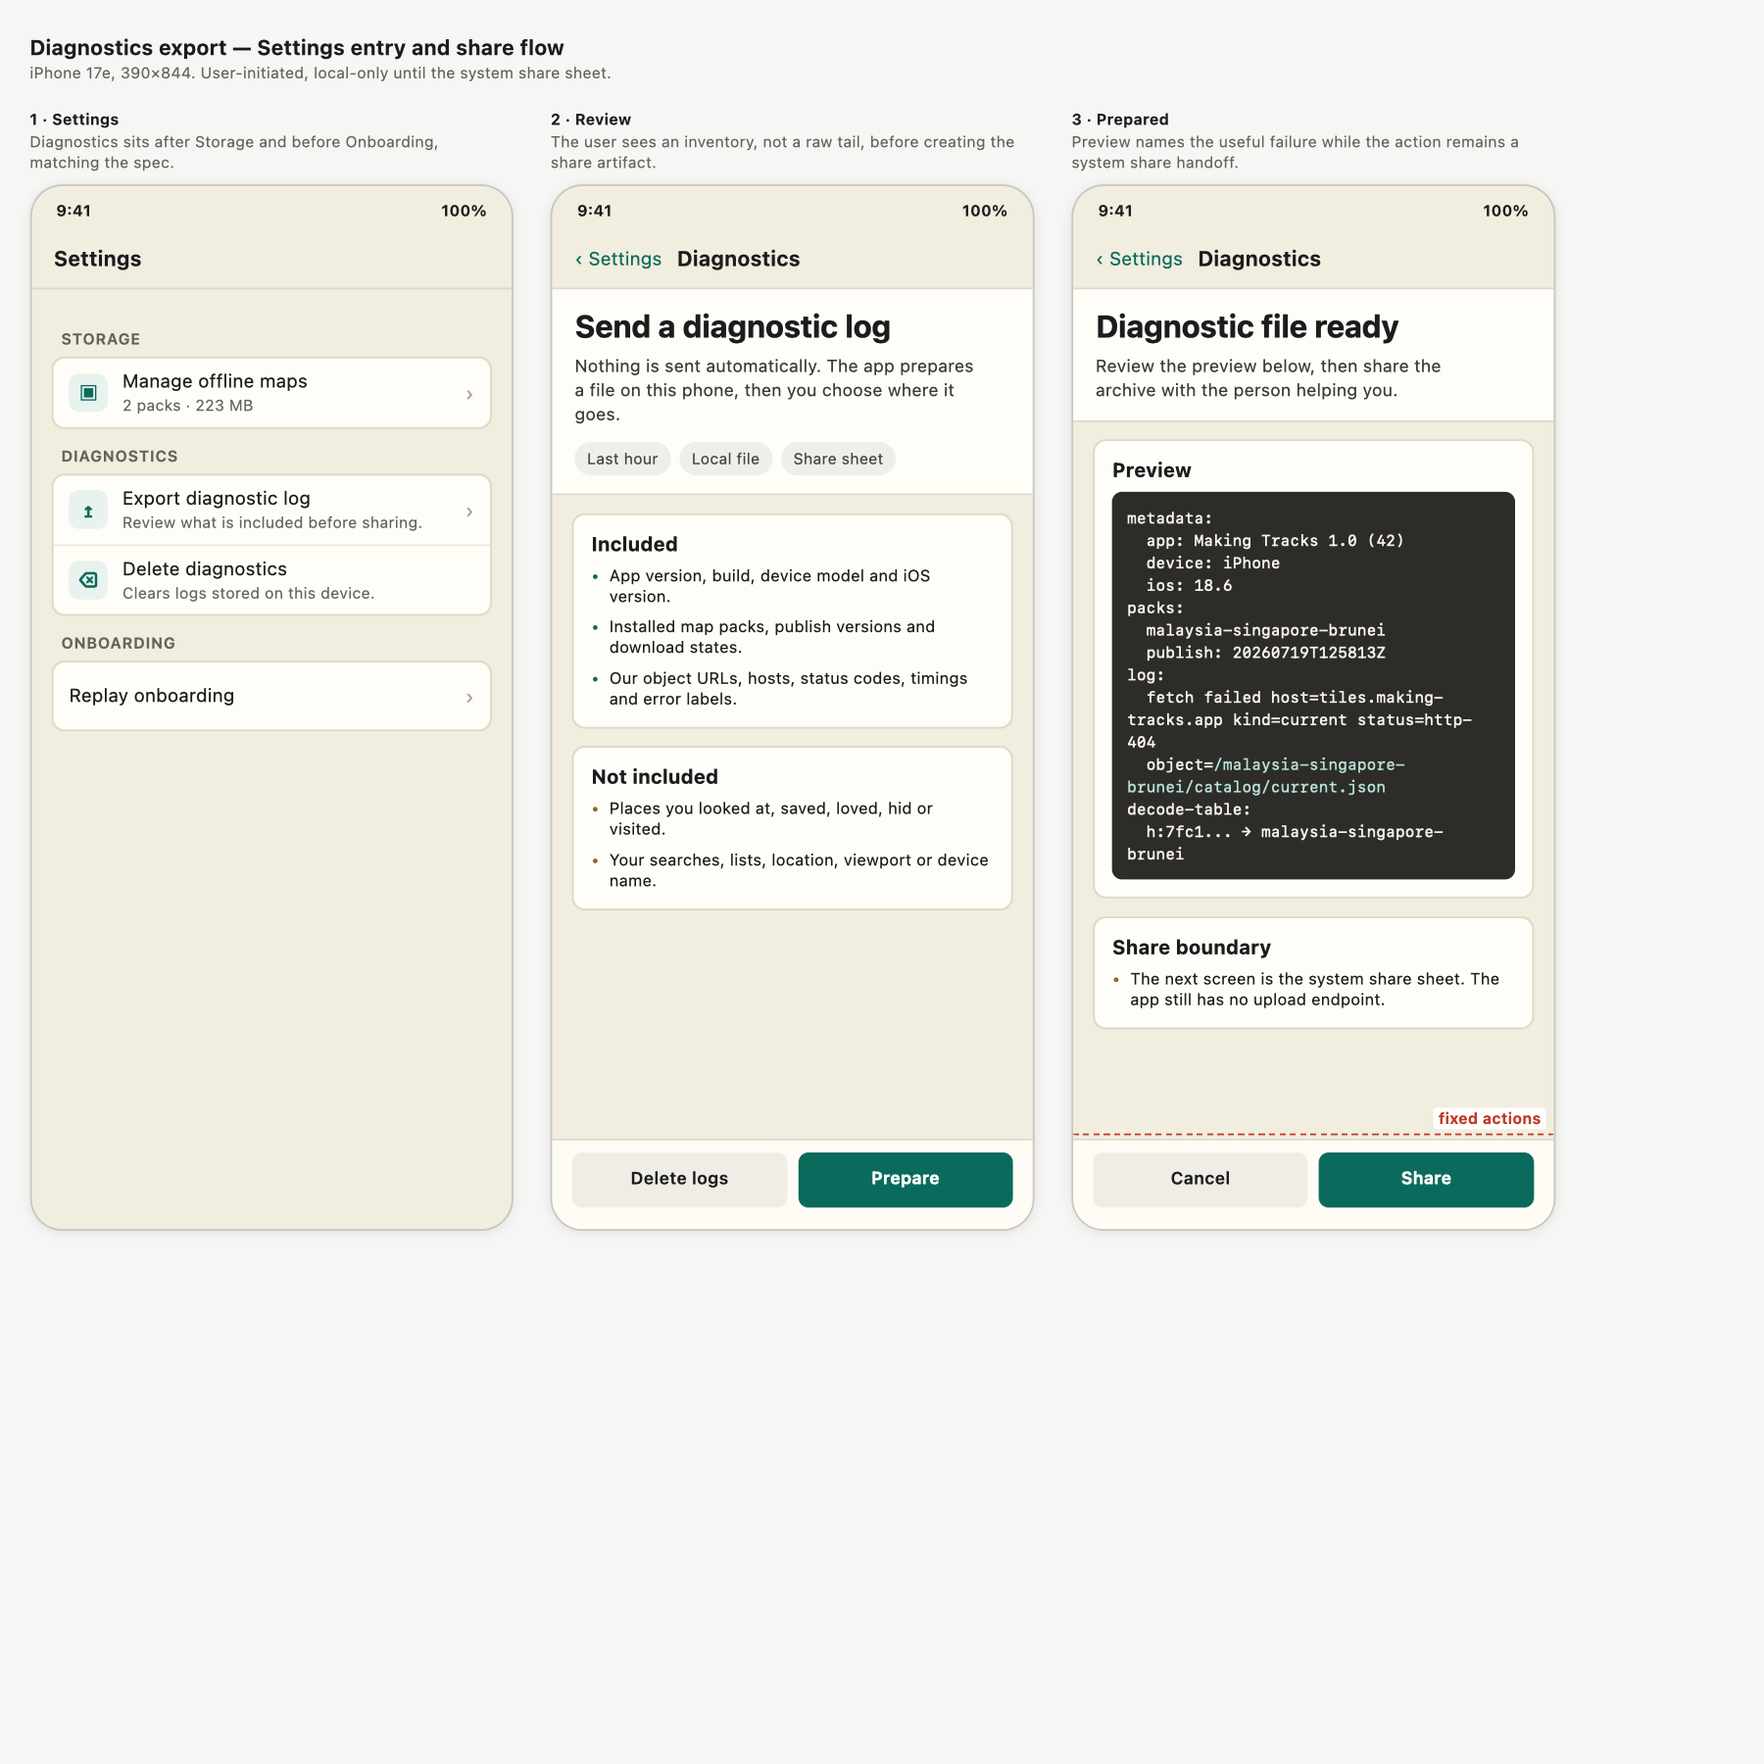
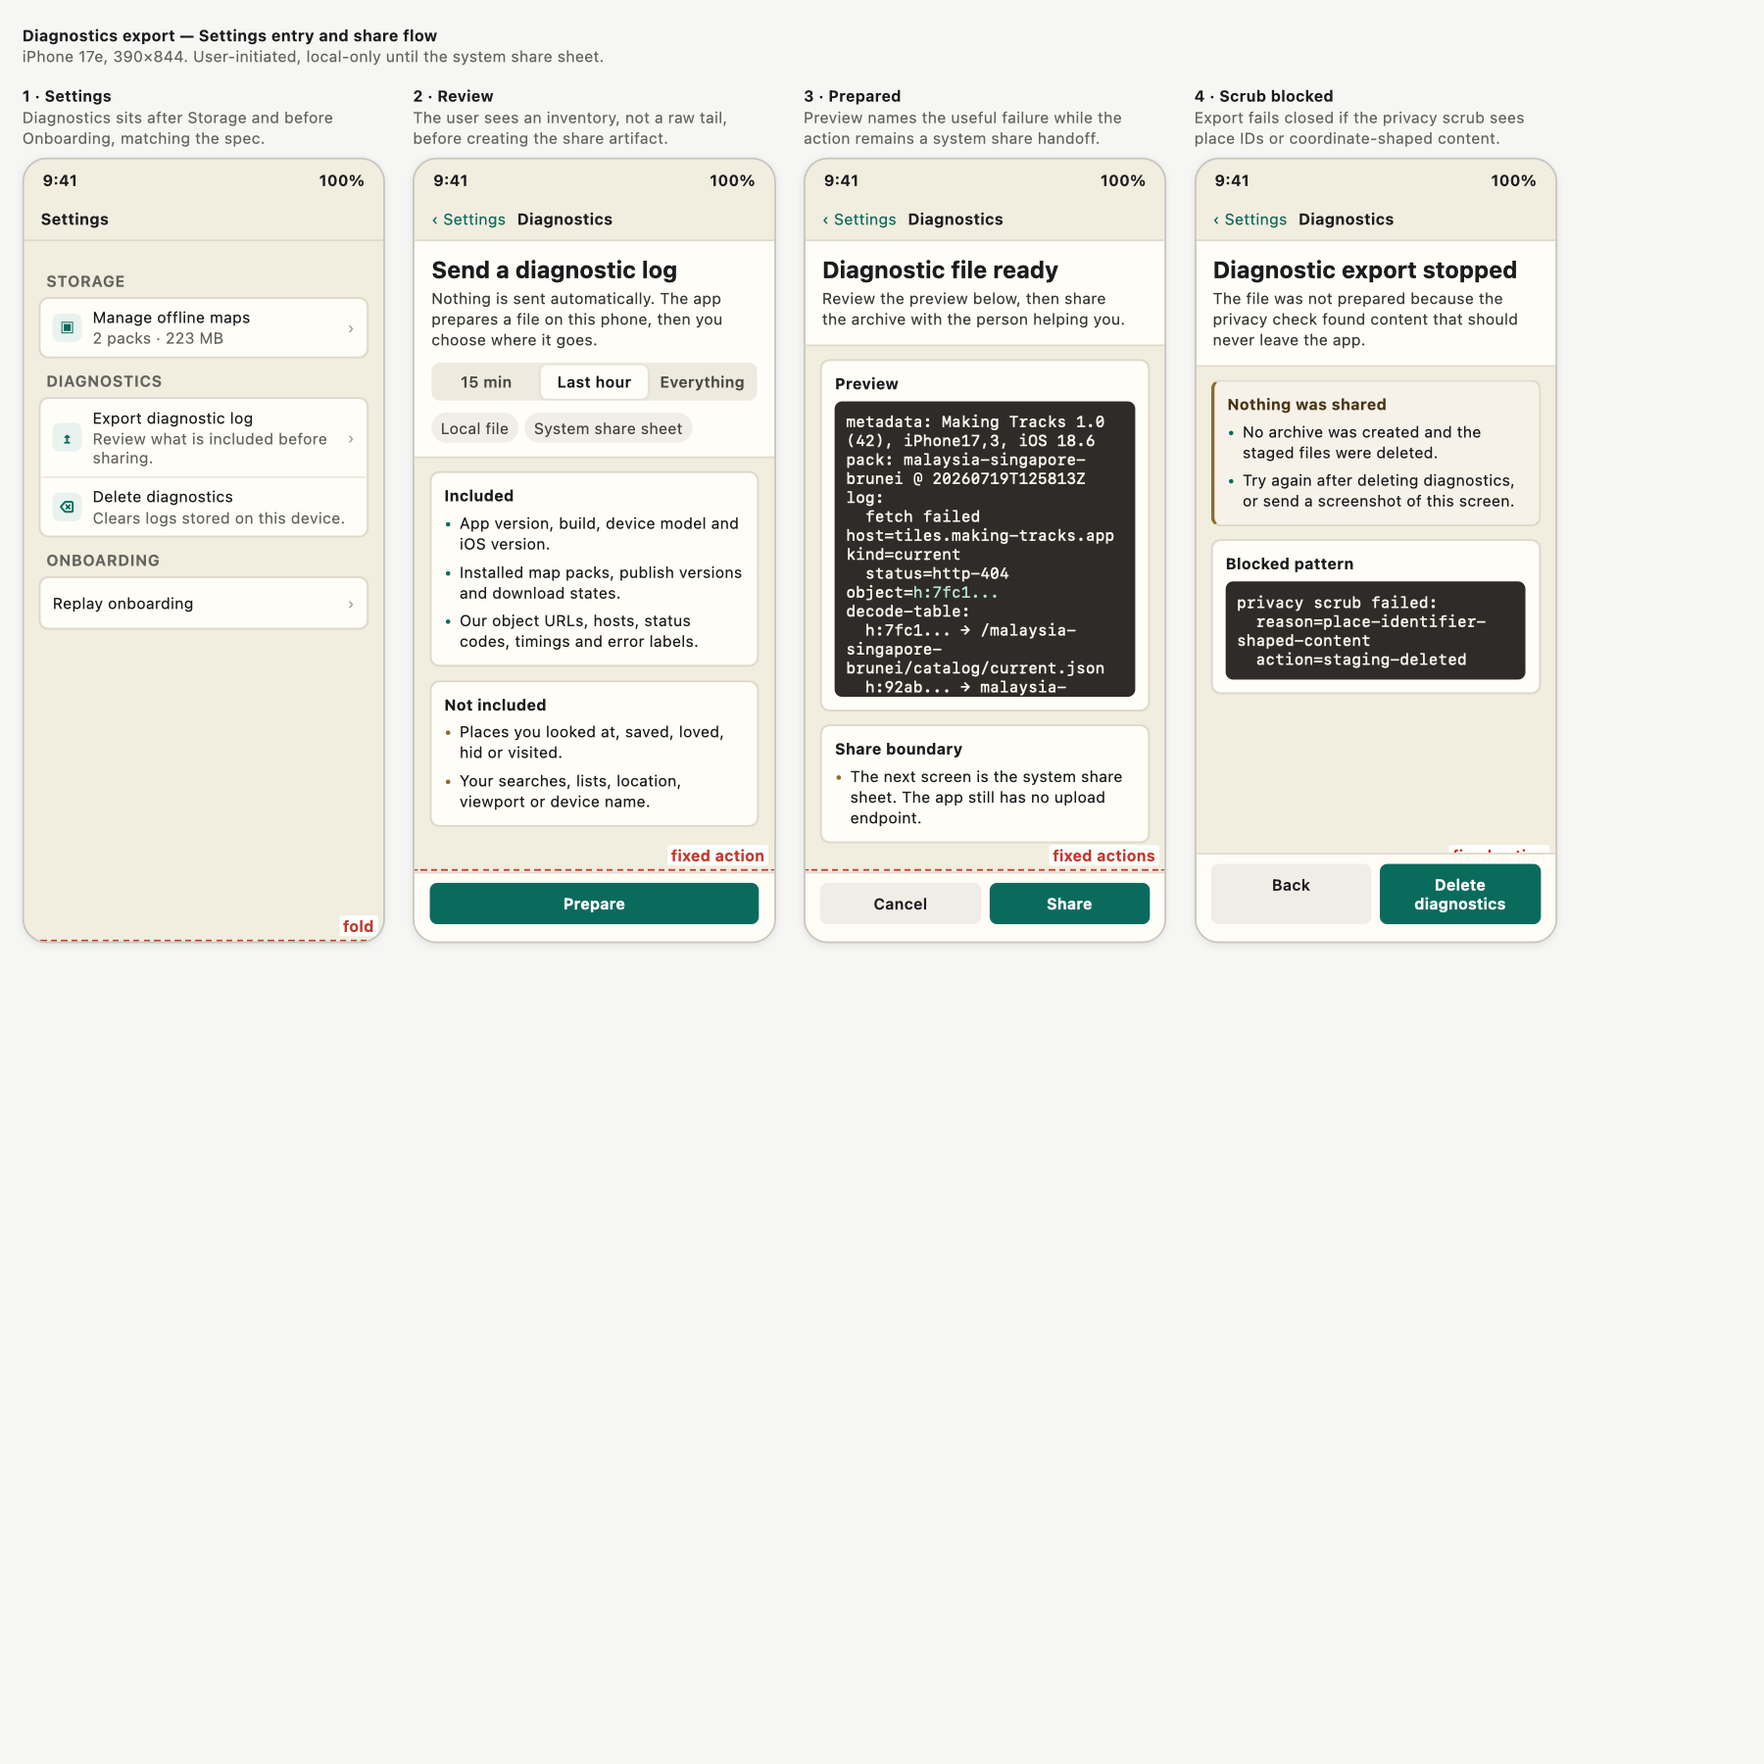
Revise diagnostics export mockups

diff --git a/docs/design/log-export/wf-diagnostics-ax.html b/docs/design/log-export/wf-diagnostics-ax.html
@@ -19,7 +19,7 @@
       color: var(--ink);
       font-family: -apple-system, BlinkMacSystemFont, "SF Pro Text", "Helvetica Neue", Arial, sans-serif;
       padding: 28px 24px 34px;
-      zoom: .72;
+      zoom: .54;
     }
     h1 { font-size: 17px; font-weight: 650; margin-bottom: 2px; }
     .sub { color: var(--dim); font-size: 12.5px; margin-bottom: 22px; }
@@ -92,16 +92,38 @@
     .hero {
       background: var(--sheet);
       border-bottom: 1px solid var(--line);
-      padding: 18px 18px 15px;
+      padding: 10px 18px 10px;
     }
-    .hero h2 { font-size: 34px; line-height: 1.06; margin-bottom: 10px; }
-    .hero p { color: #3a3a36; font-size: 22px; line-height: 1.28; max-width: 340px; }
+    .hero h2 { font-size: 27px; line-height: 1.04; margin-bottom: 6px; }
+    .hero p { color: #3a3a36; font-size: 16px; line-height: 1.18; max-width: 340px; }
     .pillrow { display: flex; gap: 8px; flex-wrap: wrap; margin-top: 14px; }
     .pill { background: #f0eee8; border-radius: 18px; color: #44423d; font-size: 17px; padding: 8px 11px; }
-    .panel { background: var(--sheet); border: 1px solid var(--line); border-radius: 10px; margin: 14px 14px 0; padding: 14px; }
-    .panel h3 { font-size: 25px; margin-bottom: 11px; }
-    .bullets { display: grid; gap: 10px; }
-    .bullet { display: flex; gap: 9px; font-size: 20px; line-height: 1.25; }
+    .segmented {
+      background: #eeeae0;
+      border-radius: 9px;
+      display: grid;
+      gap: 2px;
+      grid-template-columns: 1fr;
+      margin-top: 14px;
+      padding: 2px;
+    }
+    .segment {
+      border-radius: 7px;
+      color: #4a4943;
+      font-size: 15px;
+      font-weight: 600;
+      padding: 5px 4px;
+      text-align: center;
+    }
+    .segment.selected {
+      background: var(--sheet);
+      box-shadow: 0 1px 3px rgba(0,0,0,.12);
+      color: var(--ink);
+    }
+    .panel { background: var(--sheet); border: 1px solid var(--line); border-radius: 10px; margin: 8px 14px 0; padding: 10px; }
+    .panel h3 { font-size: 20px; margin-bottom: 6px; }
+    .bullets { display: grid; gap: 5px; }
+    .bullet { display: flex; gap: 8px; font-size: 15px; line-height: 1.12; }
     .dot { color: var(--accent); font-weight: 800; }
     .not .dot { color: var(--warn); }
     .preview {
@@ -109,8 +131,8 @@
       border-radius: 8px;
       color: #f7f4ea;
       font-family: ui-monospace, SFMono-Regular, Menlo, monospace;
-      font-size: 15px;
-      line-height: 1.45;
+      font-size: 11.5px;
+      line-height: 1.25;
       max-height: 238px;
       overflow: hidden;
       padding: 12px;
@@ -143,6 +165,12 @@
     .clip { bottom: 128px; left: 0; overflow: hidden; position: absolute; right: 0; top: 99px; }
     .fade { background: linear-gradient(to bottom, rgba(255,253,247,0), rgba(255,253,247,.98)); bottom: 128px; height: 32px; left: 0; position: absolute; right: 0; }
     .badge { background: #e6f2ee; border-radius: 4px; color: var(--accent); font-size: 10px; font-weight: 700; left: 12px; padding: 3px 7px; position: absolute; top: 106px; }
+    .fold { border-top: 2px dashed #c0392b; bottom: 128px; left: 0; position: absolute; right: 0; }
+    .foldlab { background: rgba(255,255,255,.92); border-radius: 3px; bottom: 133px; color: #c0392b; font-size: 9.5px; font-weight: 650; padding: 1px 4px; position: absolute; right: 6px; }
+    .fold.settings { bottom: 0; }
+    .foldlab.settings { bottom: 5px; }
+    .failure { background: #f6f2ea; border-left: 4px solid var(--warn); }
+    .failure h3 { color: #4b3613; }
   </style>
 </head>
 <body>
@@ -164,6 +192,7 @@
           <div class="rowitem"><div class="icon">⌫</div><div class="texts"><div class="primary">Delete diagnostics</div><div class="secondary">Clears logs stored on this device.</div></div></div>
         </div>
       </div>
+      <div class="fold settings"></div><div class="foldlab settings">fold</div>
     </div>
   </div>
   <div class="col">
@@ -176,7 +205,12 @@
         <div class="hero">
           <h2>Send a diagnostic log</h2>
           <p>Nothing is sent automatically. The app prepares a file on this phone.</p>
-          <div class="pillrow"><span class="pill">Last hour</span><span class="pill">Local file</span></div>
+          <div class="segmented">
+            <div class="segment">15 min</div>
+            <div class="segment selected">Last hour</div>
+            <div class="segment">Everything</div>
+          </div>
+          <div class="pillrow"><span class="pill">Local file</span><span class="pill">System share sheet</span></div>
         </div>
         <div class="panel">
           <h3>Included</h3>
@@ -188,11 +222,15 @@
         </div>
         <div class="panel not">
           <h3>Not included</h3>
-          <div class="bullet"><span class="dot">•</span><span>Places, searches, lists, location, viewport or device name.</span></div>
+          <div class="bullets">
+            <div class="bullet"><span class="dot">•</span><span>Places you looked at, saved, loved, hid or visited.</span></div>
+            <div class="bullet"><span class="dot">•</span><span>Your searches, lists, location, viewport or device name.</span></div>
+          </div>
         </div>
       </div>
       <div class="fade"></div>
-      <div class="bar"><div class="btn">Delete logs</div><div class="btn primary">Prepare</div></div>
+      <div class="fold"></div><div class="foldlab">fixed action</div>
+      <div class="bar"><div class="btn primary">Prepare</div></div>
     </div>
   </div>
   <div class="col">
@@ -209,15 +247,13 @@
         </div>
         <div class="panel">
           <h3>Preview</h3>
-          <div class="preview">metadata:
-  app: Making Tracks 1.0 (42)
-  device: iPhone
-packs:
-  malaysia-singapore-brunei
-  publish: 20260719T125813Z
+          <div class="preview">metadata: Making Tracks 1.0 (42), iPhone17,3
+pack: malaysia-singapore-brunei @ 20260719T125813Z
 log:
-  fetch failed host=tiles.making-tracks.app status=http-404
-  object=<span class="decode">/malaysia-singapore-brunei/catalog/current.json</span></div>
+  fetch failed host=tiles.making-tracks.app
+  status=http-404 object=<span class="decode">h:7fc1...</span>
+decode:
+  h:7fc1... → /malaysia-singapore-brunei/catalog/current.json</div>
         </div>
         <div class="panel not">
           <h3>Share boundary</h3>
@@ -225,7 +261,35 @@ log:
         </div>
       </div>
       <div class="fade"></div>
+      <div class="fold"></div><div class="foldlab">fixed action</div>
       <div class="bar"><div class="btn">Cancel</div><div class="btn primary">Share</div></div>
+    </div>
+  </div>
+  <div class="col">
+    <div class="cap">4 · Scrub blocked</div>
+    <div class="capsub">The privacy check is user-visible: if it finds forbidden content, export stops.</div>
+    <div class="phone">
+      <div class="status"><span>9:41</span><span>100%</span></div>
+      <div class="nav"><div class="back">‹</div><div class="title">Diagnostics</div></div>
+      <div class="clip">
+        <div class="hero">
+          <h2>Diagnostic export stopped</h2>
+          <p>The file was not prepared because the privacy check found content that should never leave the app.</p>
+        </div>
+        <div class="panel failure">
+          <h3>Nothing was shared</h3>
+          <div class="bullet"><span class="dot">•</span><span>No archive was created and staged files were deleted.</span></div>
+        </div>
+        <div class="panel not">
+          <h3>Blocked pattern</h3>
+          <div class="preview">privacy scrub failed:
+  reason=place-identifier-shaped-content
+  action=staging-deleted</div>
+        </div>
+      </div>
+      <div class="fade"></div>
+      <div class="fold"></div><div class="foldlab">fixed action</div>
+      <div class="bar"><div class="btn">Back</div><div class="btn primary">Delete diagnostics</div></div>
     </div>
   </div>
 </div>

diff --git a/docs/design/log-export/wf-diagnostics-default.html b/docs/design/log-export/wf-diagnostics-default.html
@@ -19,7 +19,7 @@
       color: var(--ink);
       font-family: -apple-system, BlinkMacSystemFont, "SF Pro Text", "Helvetica Neue", Arial, sans-serif;
       padding: 28px 24px 34px;
-      zoom: .72;
+      zoom: .54;
     }
     h1 { font-size: 17px; font-weight: 650; margin-bottom: 2px; }
     .sub { color: var(--dim); font-size: 12.5px; margin-bottom: 22px; }
@@ -98,6 +98,28 @@
     .hero p { color: #3a3a36; font-size: 14px; line-height: 1.42; max-width: 330px; }
     .pillrow { display: flex; gap: 7px; flex-wrap: wrap; margin-top: 13px; }
     .pill { background: #f0eee8; border-radius: 18px; color: #44423d; font-size: 12px; padding: 6px 10px; }
+    .segmented {
+      background: #eeeae0;
+      border-radius: 9px;
+      display: grid;
+      gap: 2px;
+      grid-template-columns: repeat(3, 1fr);
+      margin-top: 13px;
+      padding: 2px;
+    }
+    .segment {
+      border-radius: 7px;
+      color: #4a4943;
+      font-size: 12px;
+      font-weight: 600;
+      padding: 8px 4px;
+      text-align: center;
+    }
+    .segment.selected {
+      background: var(--sheet);
+      box-shadow: 0 1px 3px rgba(0,0,0,.12);
+      color: var(--ink);
+    }
     .panel { background: var(--sheet); border: 1px solid var(--line); border-radius: 10px; margin: 14px 16px 0; padding: 14px; }
     .panel h3 { font-size: 16px; margin-bottom: 9px; }
     .bullets { display: grid; gap: 8px; }
@@ -109,8 +131,9 @@
       border-radius: 8px;
       color: #f7f4ea;
       font-family: ui-monospace, SFMono-Regular, Menlo, monospace;
-      font-size: 10.5px;
-      line-height: 1.48;
+      font-size: 9px;
+      line-height: 1.25;
+      max-height: 318px;
       overflow: hidden;
       padding: 12px;
       white-space: pre-wrap;
@@ -140,6 +163,10 @@
     .btn.primary { background: var(--accent); color: white; }
     .fold { border-top: 2px dashed #c0392b; bottom: 76px; left: 0; position: absolute; right: 0; }
     .foldlab { background: rgba(255,255,255,.92); border-radius: 3px; bottom: 81px; color: #c0392b; font-size: 9.5px; font-weight: 650; padding: 1px 4px; position: absolute; right: 6px; }
+    .fold.settings { bottom: 0; }
+    .foldlab.settings { bottom: 5px; }
+    .failure { background: #f6f2ea; border-left: 4px solid var(--warn); }
+    .failure h3 { color: #4b3613; }
   </style>
 </head>
 <body>
@@ -167,6 +194,7 @@
           <div class="rowitem"><div class="texts"><div class="primary">Replay onboarding</div></div><div class="chev">›</div></div>
         </div>
       </div>
+      <div class="fold settings"></div><div class="foldlab settings">fold</div>
     </div>
   </div>
   <div class="col">
@@ -178,7 +206,12 @@
       <div class="hero">
         <h2>Send a diagnostic log</h2>
         <p>Nothing is sent automatically. The app prepares a file on this phone, then you choose where it goes.</p>
-        <div class="pillrow"><span class="pill">Last hour</span><span class="pill">Local file</span><span class="pill">Share sheet</span></div>
+        <div class="segmented">
+          <div class="segment">15 min</div>
+          <div class="segment selected">Last hour</div>
+          <div class="segment">Everything</div>
+        </div>
+        <div class="pillrow"><span class="pill">Local file</span><span class="pill">System share sheet</span></div>
       </div>
       <div class="panel">
         <h3>Included</h3>
@@ -195,7 +228,8 @@
           <div class="bullet"><span class="dot">•</span><span>Your searches, lists, location, viewport or device name.</span></div>
         </div>
       </div>
-      <div class="bar"><div class="btn">Delete logs</div><div class="btn primary">Prepare</div></div>
+      <div class="fold"></div><div class="foldlab">fixed action</div>
+      <div class="bar"><div class="btn primary">Prepare</div></div>
     </div>
   </div>
   <div class="col">
@@ -210,18 +244,14 @@
       </div>
       <div class="panel">
         <h3>Preview</h3>
-        <div class="preview">metadata:
-  app: Making Tracks 1.0 (42)
-  device: iPhone
-  ios: 18.6
-packs:
-  malaysia-singapore-brunei
-  publish: 20260719T125813Z
+        <div class="preview">metadata: Making Tracks 1.0 (42), iPhone17,3, iOS 18.6
+pack: malaysia-singapore-brunei @ 20260719T125813Z
 log:
-  fetch failed host=tiles.making-tracks.app kind=current status=http-404
-  object=<span class="decode">/malaysia-singapore-brunei/catalog/current.json</span>
+  fetch failed host=tiles.making-tracks.app kind=current
+  status=http-404 object=<span class="decode">h:7fc1...</span>
 decode-table:
-  h:7fc1... → malaysia-singapore-brunei</div>
+  h:7fc1... → /malaysia-singapore-brunei/catalog/current.json
+  h:92ab... → malaysia-singapore-brunei</div>
       </div>
       <div class="panel not">
         <h3>Share boundary</h3>
@@ -229,6 +259,33 @@ decode-table:
       </div>
       <div class="fold"></div><div class="foldlab">fixed actions</div>
       <div class="bar"><div class="btn">Cancel</div><div class="btn primary">Share</div></div>
+    </div>
+  </div>
+  <div class="col">
+    <div class="cap">4 · Scrub blocked</div>
+    <div class="capsub">Export fails closed if the privacy scrub sees place IDs or coordinate-shaped content.</div>
+    <div class="phone">
+      <div class="status"><span>9:41</span><span>100%</span></div>
+      <div class="nav"><div class="back">‹ Settings</div><div class="title">Diagnostics</div></div>
+      <div class="hero">
+        <h2>Diagnostic export stopped</h2>
+        <p>The file was not prepared because the privacy check found content that should never leave the app.</p>
+      </div>
+      <div class="panel failure">
+        <h3>Nothing was shared</h3>
+        <div class="bullets">
+          <div class="bullet"><span class="dot">•</span><span>No archive was created and the staged files were deleted.</span></div>
+          <div class="bullet"><span class="dot">•</span><span>Try again after deleting diagnostics, or send a screenshot of this screen.</span></div>
+        </div>
+      </div>
+      <div class="panel not">
+        <h3>Blocked pattern</h3>
+        <div class="preview">privacy scrub failed:
+  reason=place-identifier-shaped-content
+  action=staging-deleted</div>
+      </div>
+      <div class="fold"></div><div class="foldlab">fixed action</div>
+      <div class="bar"><div class="btn">Back</div><div class="btn primary">Delete diagnostics</div></div>
     </div>
   </div>
 </div>

diff --git a/docs/design/log-export/README.md b/docs/design/log-export/README.md
@@ -1,0 +1,25 @@
+# Diagnostics Export Mockups
+
+HTML wireframes for #269's Settings diagnostics export flow. The design canvas is iPhone 17e at 390 x 844.
+
+Artifacts:
+
+- `diagnostics-default.png` from `wf-diagnostics-default.html`
+- `diagnostics-ax.png` from `wf-diagnostics-ax.html`
+
+Render command used on macOS:
+
+```bash
+qlmanage -t -s 1800 -o docs/design/log-export docs/design/log-export/wf-diagnostics-default.html
+mv docs/design/log-export/wf-diagnostics-default.html.png docs/design/log-export/diagnostics-default.png
+qlmanage -t -s 1800 -o docs/design/log-export docs/design/log-export/wf-diagnostics-ax.html
+mv docs/design/log-export/wf-diagnostics-ax.html.png docs/design/log-export/diagnostics-ax.png
+```
+
+Validation notes:
+
+- Settings entry sits after Storage and before Onboarding.
+- Review screen uses a real time-window control: 15 minutes, last hour, everything.
+- Raw preview keeps object identifiers hashed and includes the decode table in the bundle.
+- The not-included privacy promise is identical in default and accessibility-size renders.
+- Scrub failure is a user-visible, fail-closed state.
